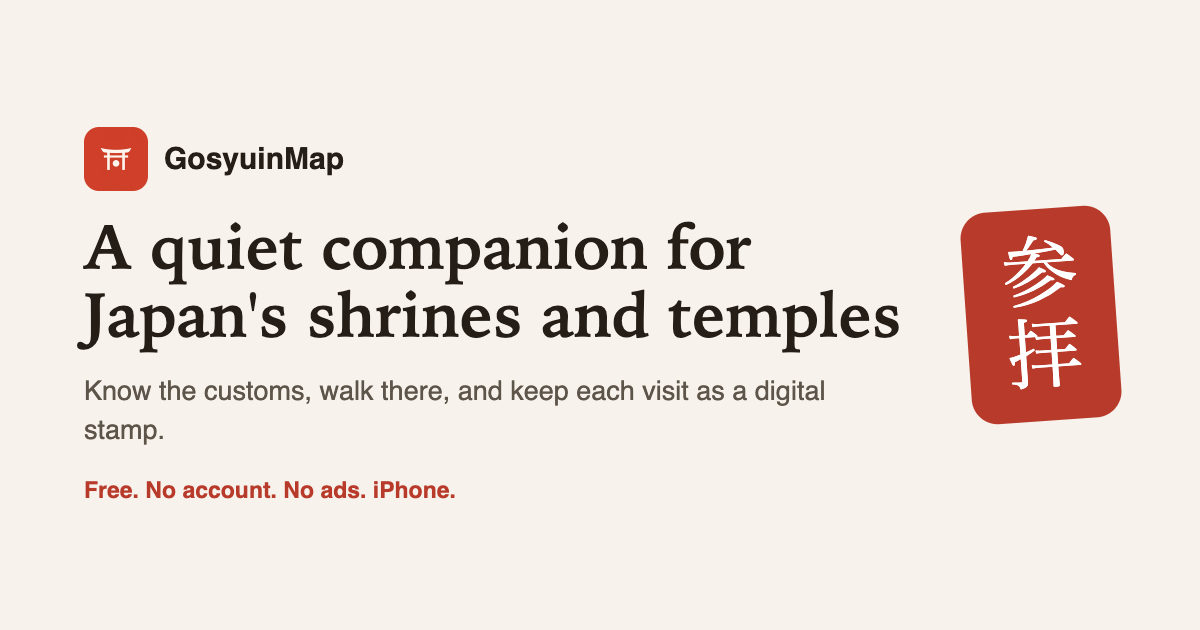
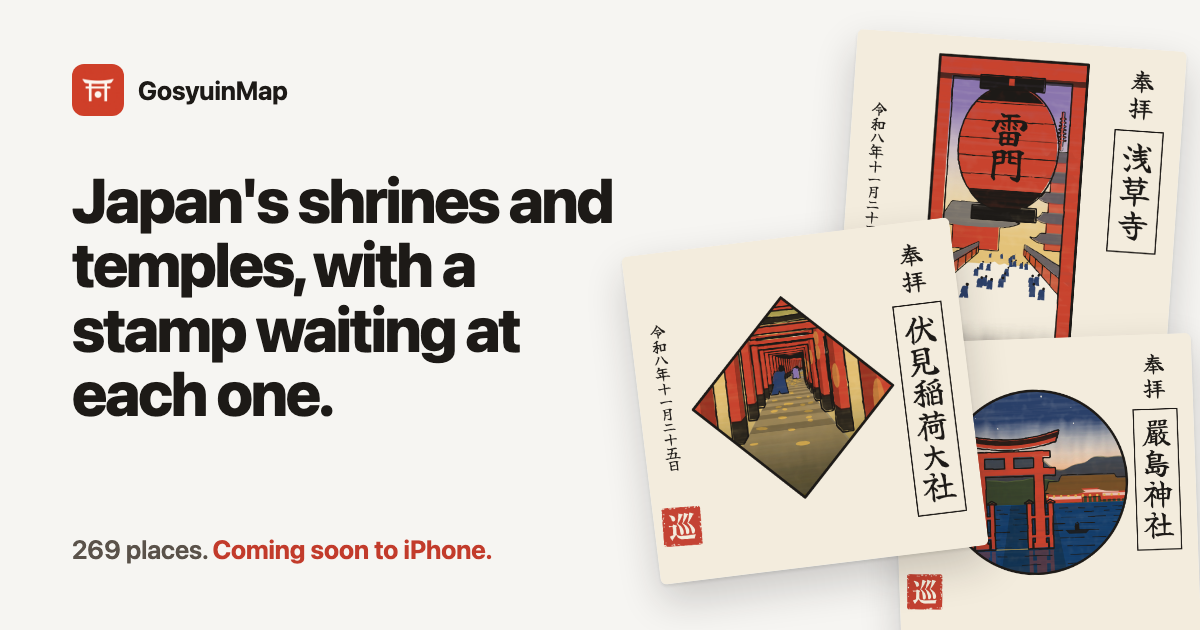
New hero, og image, email images, remove flow

diff --git a/index.html b/index.html
@@ -3,20 +3,34 @@
 <head>
 <meta charset="UTF-8">
 <meta name="viewport" content="width=device-width, initial-scale=1">
-<title>GosyuinMap: a guide to Japan's shrines and temples</title>
-<meta name="description" content="A free iPhone app for visiting Japan's shrines and temples. 269 places with written guides, the customs explained, walking directions, and a digital keepsake stamp you press when you arrive.">
-<meta property="og:title" content="GosyuinMap: a guide to Japan's shrines and temples">
-<meta property="og:description" content="Know the customs, walk there, and keep each visit as a digital stamp. Free, no account, no ads.">
+<title>GosyuinMap: stamps and guides for Japan's shrines and temples</title>
+<meta name="description" content="A free iPhone app for Japan's shrines and temples. 269 places, each with a guide and its own woodblock-style stamp. Learn what to do at the gate, walk there, and press the stamp when you arrive.">
+<link rel="canonical" href="https://bjprodby-svg.github.io/gosyuin/">
 <meta property="og:type" content="website">
+<meta property="og:site_name" content="GosyuinMap">
+<meta property="og:url" content="https://bjprodby-svg.github.io/gosyuin/">
+<meta property="og:title" content="GosyuinMap: stamps and guides for Japan's shrines and temples">
+<meta property="og:description" content="Learn what to do at the gate, walk there, and press a woodblock-style stamp you can only get on the spot. 269 places. Free, no account, no ads.">
+<meta property="og:locale" content="en_US">
 <meta property="og:image" content="https://bjprodby-svg.github.io/gosyuin/images/og.png">
+<meta property="og:image:type" content="image/png">
+<meta property="og:image:width" content="1200">
+<meta property="og:image:height" content="630">
+<meta property="og:image:alt" content="Woodblock-style stamps of Senso-ji, Fushimi Inari Taisha and Itsukushima Jinja on washi paper, beside the line: Japan's shrines and temples, with a stamp waiting at each one.">
 <meta name="twitter:card" content="summary_large_image">
+<meta name="twitter:site" content="@Gosyuin_map">
+<meta name="twitter:title" content="GosyuinMap: stamps and guides for Japan's shrines and temples">
+<meta name="twitter:description" content="Learn what to do at the gate, walk there, and press a woodblock-style stamp you can only get on the spot. Free, no account, no ads.">
+<meta name="twitter:image" content="https://bjprodby-svg.github.io/gosyuin/images/og.png">
+<meta name="twitter:image:alt" content="Woodblock-style stamps of Senso-ji, Fushimi Inari Taisha and Itsukushima Jinja on washi paper.">
+<meta name="theme-color" content="#F6F5F2">
 <!-- Smart App Banner (Safari on iPhone). Uncomment it in the same publish that
      sets LIVE_FROM (or PREORDER) below, with the ID (digits only) in place of APP_ID.
      The banner carries no campaign, so installs through it show as web referrals.
 <meta name="apple-itunes-app" content="app-id=APP_ID">
 -->
 <link rel="icon" href="images/app-icon.png">
-<link rel="apple-touch-icon" href="images/app-icon.png">
+<link rel="apple-touch-icon" href="images/apple-touch-icon.png">
 <link rel="stylesheet" href="styles.css">
 </head>
 <body class="has-get-bar">
@@ -38,15 +52,15 @@
 <section class="hero">
   <div class="wrap">
     <div>
-      <h1>A quiet companion for Japan's shrines and temples</h1>
-      <p class="lead">GosyuinMap walks you there, shows you what to do when you arrive, and lets you keep each visit as a digital stamp.</p>
+      <h1>Japan's shrines and temples, with a stamp waiting at each one.</h1>
+      <p class="lead">GosyuinMap tells you what to do at the gate, walks you there, and gives you a woodblock-style stamp you can only press on the spot.</p>
       <div class="cta">
         <a class="store-badge" data-store href="#top" hidden>
           <svg width="22" height="26" viewBox="0 0 814 1000" fill="currentColor" aria-hidden="true"><path d="M788 341c-6 4-109 62-109 190 0 148 130 200 134 201-1 3-21 71-69 141-43 61-88 123-156 123s-86-40-165-40c-77 0-104 41-167 41s-107-57-157-127C41 786 0 661 0 543c0-190 123-290 245-290 64 0 118 42 159 42 39 0 99-45 172-45 28 0 128 3 212 91zM574 164c32-38 55-91 55-144 0-7-1-15-2-20-52 2-114 35-152 78-29 33-57 86-57 140 0 8 1 16 2 19 3 1 9 2 14 2 47 0 106-31 140-75z"/></svg>
           <span><small>Download on the</small><b>App Store</b></span>
         </a>
         <div class="soon" data-soon>
-          <p class="soon-title">Coming soon to the App Store</p>
+          <p class="soon-title" data-soon-title>Coming soon to the App Store</p>
           <!-- The waitlist. Hidden until WAITLIST_FORM is set in the script at
                the bottom, so the page never shows a form that goes nowhere. -->
           <form class="waitlist" id="waitlist" data-waitlist method="post" target="waitlist-sink" hidden>
@@ -61,7 +75,7 @@
             <p class="waitlist-done" data-wl-done role="status" hidden></p>
           </form>
           <iframe class="vh" name="waitlist-sink" title="Waitlist" tabindex="-1" aria-hidden="true"></iframe>
-          <p class="soon-sub">Launch news on <a href="https://x.com/Gosyuin_map">X</a> and <a href="https://www.youtube.com/@gosyuinmap">YouTube</a>.</p>
+          <p class="soon-sub" data-soon-sub>Launch news on <a href="https://x.com/Gosyuin_map">X</a> and <a href="https://www.youtube.com/@gosyuinmap">YouTube</a>.</p>
         </div>
         <p class="fine">Free. No account. No ads.<br>iPhone, iOS 26 or later.</p>
       </div>
@@ -95,7 +109,7 @@
     <div class="claim flip" id="walk">
       <div class="text">
         <h2>269 well-known shrines and temples, each with a written guide.</h2>
-        <p class="body">Every place on the map tells you what makes it special, what not to miss, when to go, how to get there and when it is open. Pick one, tap Set Off, and the app gives you a walking route with your progress on the Lock Screen, so the phone can stay in your pocket.</p>
+        <p class="body">Every place on the map tells you what makes it special, what not to miss, when to go, how to get there and when it is open. Pick one, tap Go, and the app gives you a walking route with your progress on the Lock Screen, so the phone can stay in your pocket.</p>
         <p class="body fine">From Meiji Jingu and Senso-ji in Tokyo to Fushimi Inari Taisha and Kiyomizu-dera in Kyoto, Todai-ji in Nara and Itsukushima Jinja in Hiroshima.</p>
       </div>
       <div class="shots pair">
@@ -108,7 +122,7 @@
       <div class="text">
         <h2>When you are there, press a digital keepsake stamp. You have to be there.</h2>
         <p class="body">Within about 100 meters of a shrine or temple on the map, the app invites you to press its stamp into your stamp book. Each of the 269 places has its own design, drawn in the style of a woodblock print. There is no way to press one from your sofa.</p>
-        <p class="body">Your stamp book keeps every visit, shelved by prefecture, and characters from Japanese folk tales join you as it fills, from a paper lantern at your first place to the nine-tailed fox at the very end.</p>
+        <p class="body">Your stamp book keeps every visit, shelved by prefecture, and nine yokai from Japanese folk tales join you one by one as it fills, from a paper lantern at your first place to the nine-tailed fox at the very end.</p>
       </div>
       <div class="shots">
         <figure class="shot"><img src="images/screenshots/06-stamp-book.png" alt="The stamp book, with a companion from Japanese folk tales and shelves of stamps by prefecture" width="1320" height="2868" loading="lazy"></figure>
@@ -174,7 +188,7 @@
     </div>
     <ul class="know">
       <li><b>iPhone only.</b> Requires iOS 26 or later. The interface is in English.</li>
-      <li><b>Background location, only on a walk.</b> Walking guidance uses your location in the background only while a walk is in progress.</li>
+      <li><b>Background location, only when you ask.</b> Walking guidance uses your location in the background only during a walk. If you turn on "Tell me when I'm near a shrine", iOS watches for nearby places on your iPhone and the app sends you one notification when you pass one. It's off until you turn it on.</li>
       <li><b>Independent.</b> GosyuinMap is an independent app and is not affiliated with any shrine or temple.</li>
     </ul>
   </div>
@@ -192,7 +206,7 @@
     <div class="soon" data-soon>
       <p class="soon-title">Coming soon to the App Store</p>
       <a class="waitlist-jump" data-wl-link href="#waitlist" hidden>Get one email at launch</a>
-      <p class="soon-sub">Launch news on <a href="https://x.com/Gosyuin_map">X</a> and <a href="https://www.youtube.com/@gosyuinmap">YouTube</a>.</p>
+      <p class="soon-sub" data-soon-sub>Launch news on <a href="https://x.com/Gosyuin_map">X</a> and <a href="https://www.youtube.com/@gosyuinmap">YouTube</a>.</p>
     </div>
   </div>
 </section>
@@ -210,7 +224,7 @@
 
 <div class="get-bar">
   <img src="images/app-icon.png" alt="" width="44" height="44">
-  <p class="name">GosyuinMap<small>Free on iPhone</small></p>
+  <p class="name">GosyuinMap<small data-bar-line>Coming soon to iPhone</small></p>
   <a class="store-badge" data-store href="#top" hidden>
     <svg width="18" height="22" viewBox="0 0 814 1000" fill="currentColor" aria-hidden="true"><path d="M788 341c-6 4-109 62-109 190 0 148 130 200 134 201-1 3-21 71-69 141-43 61-88 123-156 123s-86-40-165-40c-77 0-104 41-167 41s-107-57-157-127C41 786 0 661 0 543c0-190 123-290 245-290 64 0 118 42 159 42 39 0 99-45 172-45 28 0 128 3 212 91zM574 164c32-38 55-91 55-144 0-7-1-15-2-20-52 2-114 35-152 78-29 33-57 86-57 140 0 8 1 16 2 19 3 1 9 2 14 2 47 0 106-31 140-75z"/></svg>
     <span><small>Download on the</small><b>App Store</b></span>
@@ -267,6 +281,8 @@
       var line = a.querySelector("small");
       if (line) line.textContent = live ? "Download on the" : "Pre-order on the";
     });
+    var barLine = document.querySelector("[data-bar-line]");
+    if (barLine) barLine.textContent = live ? "Free on iPhone" : "Pre-order on iPhone";
     document.querySelectorAll("[data-soon]").forEach(function (el) { el.hidden = true; });
     return;
   }
@@ -289,12 +305,19 @@
   var button = form.querySelector("[data-wl-button]");
   var done = form.querySelector("[data-wl-done]");
   if (removing) {
+    // Leaving the list: the page is about removing an address, so nothing
+    // here asks to sign up (no Coming soon label, no bottom bar, no links).
     button.textContent = "Remove my email";
+    form.classList.add("is-remove");
     form.querySelector("[data-wl-promise]").textContent =
       "Type the address you signed up with. We delete it from the waitlist within 7 days.";
+    var title = document.querySelector("[data-soon-title]");
+    if (title) { title.textContent = "Leave the waitlist"; title.classList.add("is-remove"); }
+    document.querySelectorAll("[data-soon-sub]").forEach(function (el) { el.hidden = true; });
+    document.body.classList.add("removing");
   }
   form.hidden = false;
-  document.querySelectorAll("[data-wl-link]").forEach(function (a) { a.hidden = false; });
+  if (!removing) document.querySelectorAll("[data-wl-link]").forEach(function (a) { a.hidden = false; });
   document.querySelectorAll("[data-wl-chip]").forEach(function (el) { el.hidden = true; });
   if (removing) form.scrollIntoView({ block: "center" });
 
@@ -316,9 +339,20 @@
     form.querySelector("[data-wl-promise]").hidden = true;
     done.textContent = removing
       ? "Got it. We'll delete that address within 7 days."
-      : "You're on the list! Check your inbox for a confirmation. One email when it's out, then we delete your address.";
+      : "You're on the list! A confirmation is on its way (check Promotions or Spam if it's not there in a few minutes). One email when it's out, then we delete your address.";
     done.hidden = false;
   });
+})();
+</script>
+<script>
+// The bottom bar on phones shows only once the hero's own label and form
+// have scrolled out of view, so the two never sit on screen together.
+(function () {
+  var cta = document.querySelector(".hero .cta");
+  if (!cta || !("IntersectionObserver" in window)) return;
+  new IntersectionObserver(function (entries) {
+    document.body.classList.toggle("cta-in-view", entries[0].isIntersecting);
+  }).observe(cta);
 })();
 </script>
 </body>

diff --git a/support.html b/support.html
@@ -3,9 +3,29 @@
 <head>
 <meta charset="UTF-8">
 <meta name="viewport" content="width=device-width, initial-scale=1">
-<title>Support and FAQ | GosyuinMap</title>
-<meta name="description" content="Help for GosyuinMap: how pressing a stamp works, why you have to be there, location permission, what happens to your data, and how to contact us.">
+<title>Support and FAQ: GosyuinMap</title>
+<meta name="description" content="Help for GosyuinMap: how pressing a stamp works, why you have to be there, location and nearby notifications, what happens to your data, and how to contact us.">
+<link rel="canonical" href="https://bjprodby-svg.github.io/gosyuin/support.html">
+<meta property="og:type" content="website">
+<meta property="og:site_name" content="GosyuinMap">
+<meta property="og:url" content="https://bjprodby-svg.github.io/gosyuin/support.html">
+<meta property="og:title" content="Support and FAQ: GosyuinMap">
+<meta property="og:description" content="Help for GosyuinMap: how pressing a stamp works, why you have to be there, location and nearby notifications, what happens to your data, and how to contact us.">
+<meta property="og:locale" content="en_US">
+<meta property="og:image" content="https://bjprodby-svg.github.io/gosyuin/images/og.png">
+<meta property="og:image:type" content="image/png">
+<meta property="og:image:width" content="1200">
+<meta property="og:image:height" content="630">
+<meta property="og:image:alt" content="Woodblock-style stamps of Senso-ji, Fushimi Inari Taisha and Itsukushima Jinja on washi paper, beside the line: Japan's shrines and temples, with a stamp waiting at each one.">
+<meta name="twitter:card" content="summary_large_image">
+<meta name="twitter:site" content="@Gosyuin_map">
+<meta name="twitter:title" content="Support and FAQ: GosyuinMap">
+<meta name="twitter:description" content="Help for GosyuinMap: how pressing a stamp works, why you have to be there, location and nearby notifications, what happens to your data, and how to contact us.">
+<meta name="twitter:image" content="https://bjprodby-svg.github.io/gosyuin/images/og.png">
+<meta name="twitter:image:alt" content="Woodblock-style stamps of Senso-ji, Fushimi Inari Taisha and Itsukushima Jinja on washi paper.">
+<meta name="theme-color" content="#F6F5F2">
 <link rel="icon" href="images/app-icon.png">
+<link rel="apple-touch-icon" href="images/apple-touch-icon.png">
 <link rel="stylesheet" href="styles.css">
 </head>
 <body>
@@ -33,8 +53,8 @@
   </div>
 
   <ul class="toc">
-    <li><a href="#collecting">How does collecting a stamp work?</a></li>
-    <li><a href="#remote">Why can't I collect a stamp from somewhere else?</a></li>
+    <li><a href="#collecting">How does pressing a stamp work?</a></li>
+    <li><a href="#remote">Why can't I press a stamp from somewhere else?</a></li>
     <li><a href="#goshuin">Are the stamps goshuin?</a></li>
     <li><a href="#no-invitation">I am at a shrine and nothing happened</a></li>
     <li><a href="#location">Why does the app ask for my location?</a></li>
@@ -44,16 +64,16 @@
     <li><a href="#contact">How do I contact you?</a></li>
   </ul>
 
-  <h2 id="collecting">How does collecting a stamp work?</h2>
+  <h2 id="collecting">How does pressing a stamp work?</h2>
   <ol>
     <li>Find a shrine or temple on the map in the Explore tab. The app includes 269 of them, and each has its own stamp.</li>
-    <li>Go there. If you like, tap Set Off for a walking route with your progress on the Lock Screen.</li>
-    <li>When you are within about 100 meters, the app shows an invitation with the place's seal. Tap the seal to press it. You can also turn the phone over and press it onto your palm.</li>
+    <li>Go there. If you like, tap Directions, then Go, for a walking route with your progress on the Lock Screen. Taking the train? Open in Maps hands the route to Apple Maps, or Google Maps if you have it.</li>
+    <li>When you are within about 100 meters, the app shows an invitation with the place's seal. Touch the seal to press it. You can also turn the phone over and press it onto your palm.</li>
     <li>The stamp is now in your stamp book in the Collect tab, shelved by prefecture.</li>
   </ol>
   <p>If you tap Not Now, the invitation for that place stays quiet for the rest of the session. You can still press the stamp from that place's page on the map (Press the Stamp) while you are there.</p>
 
-  <h2 id="remote">Why can't I collect a stamp from somewhere else?</h2>
+  <h2 id="remote">Why can't I press a stamp from somewhere else?</h2>
   <p>Because the stamp is a memento of being there. The app checks your location on your iPhone and only offers the stamp when you are within about 100 meters of the place. There is no other way to add a stamp, and we cannot add one for you: your stamp book is stored on your device and we have no access to it.</p>
 
   <h2 id="goshuin">Are the stamps goshuin?</h2>
@@ -75,7 +95,9 @@
     <li>to guide your walk to a place you choose,</li>
     <li>to confirm that you have arrived, so you can press the stamp.</li>
   </ul>
-  <p>While a walk is in progress, the app keeps reading your location with the screen off so the Lock Screen progress stays up to date. This stops when the walk ends. At no other time does the app use your location in the background.</p>
+  <p>While a walk is in progress, the app keeps reading your location with the screen off so the Lock Screen progress stays up to date. This stops when the walk ends.</p>
+  <p>If you turn on "Tell me when I'm near a shrine", the app asks for Always access so iOS can notice, on your iPhone, when you pass a place not yet in your book, and send you one notification. It's off until you turn it on, and you can turn it off again in the app's Settings or in iOS Settings. Your location stays on your iPhone.</p>
+  <p>Apart from these two, the app never uses your location in the background.</p>
   <p>If you do not allow location access, the map, the guides and your stamp book still work. You will not be able to press new stamps or use walking guidance.</p>
 
   <h2 id="data">What happens to my data?</h2>

diff --git a/styles.css b/styles.css
@@ -3,13 +3,13 @@
 
 :root {
   color-scheme: light dark;
-  --paper: #f7f2eb;
+  --paper: #f6f5f2;
   --paper-raised: #fffdf9;
   --paper-sunk: #efe8dd;
-  --ink: #241e17;
+  --ink: #1d1a17;
   --ink-soft: #5d544a;
-  --line: rgba(36, 30, 23, 0.12);
-  --shu: #b83a2a;
+  --line: rgba(29, 26, 23, 0.12);
+  --shu: #c23b2b;
   --shu-ink: #ffffff;
   --link: #a23324;
   --shadow: 0 14px 34px rgba(50, 32, 10, 0.14);
@@ -101,11 +101,9 @@ p { margin: 0; }
   margin: 0; padding: 10px 16px; border: 1px solid var(--line); border-radius: 999px;
   background: var(--paper-raised); color: var(--ink); font-weight: 700; font-size: 17px; line-height: 1.2;
 }
-.soon-title::before { content: ""; width: 8px; height: 8px; border-radius: 50%; background: var(--shu); flex: none; }
 .soon-sub { margin: 0; font-size: 14px; color: var(--ink-soft); }
 .soon-sub a { color: var(--link); }
-.closing .soon { align-items: center; margin-top: 28px; }
-.closing .soon-title { align-self: center; }
+.closing .soon { align-items: flex-start; margin-top: 28px; }
 .soon-chip { display: none; }
 
 /* The waitlist inside the Coming soon label: one email field, one button. */
@@ -123,6 +121,8 @@ p { margin: 0; }
   flex: none; height: 48px; padding: 0 18px; border: 0; border-radius: 12px;
   background: var(--shu); color: var(--shu-ink); font: inherit; font-size: 16px; font-weight: 700; cursor: pointer;
 }
+/* Leaving the list (#remove): a quiet ink outline, not the sign-up button. */
+.waitlist.is-remove button { background: transparent; color: var(--ink); border: 1.5px solid var(--ink); }
 .waitlist button:disabled { opacity: 0.6; cursor: default; }
 .waitlist-promise, .waitlist-done { margin: 0; font-size: 14px; color: var(--ink-soft); }
 .waitlist-done { color: var(--ink); font-weight: 600; }
@@ -159,6 +159,11 @@ p { margin: 0; }
     background: var(--paper-raised); color: var(--ink); font-size: 13px; font-weight: 700; white-space: nowrap;
   }
   .get-bar .soon-chip[hidden] { display: none; }
+  .get-bar { transition: transform 0.25s ease, visibility 0.25s; }
+  @media (prefers-reduced-motion: reduce) { .get-bar { transition: none; } }
+  /* Hidden while the hero's own label is on screen, and on #remove. */
+  body.cta-in-view .get-bar, body.removing .get-bar { transform: translateY(110%); visibility: hidden; }
+  body.removing.has-get-bar { padding-bottom: 0; }
   .get-bar a.soon-chip { color: var(--shu-ink); background: var(--shu); border-color: transparent; text-decoration: none; }
 }
 
@@ -223,7 +228,7 @@ p { margin: 0; }
 .guide-list span { font-size: 15px; color: var(--ink-soft); }
 .types { margin-top: 40px; display: grid; grid-template-columns: repeat(8, 1fr); gap: 12px; }
 .types figure { margin: 0; background: #fffdf9; border: 1px solid var(--line); border-radius: 14px; padding: 8px 8px 10px; text-align: center; }
-.types figcaption { font-size: 12.5px; font-weight: 700; color: #241e17; margin-top: 4px; }
+.types figcaption { font-size: 12.5px; font-weight: 700; color: #1d1a17; margin-top: 4px; }
 @media (max-width: 860px) {
   .guide-list { grid-template-columns: 1fr; }
   .types { grid-template-columns: repeat(4, 1fr); }
@@ -241,9 +246,9 @@ p { margin: 0; }
 .know b { color: var(--ink); }
 
 /* ---------- closing ---------- */
-.closing { text-align: center; padding: 72px 0 88px; border-top: 1px solid var(--line); }
-.closing img.icon { width: 88px; height: 88px; border-radius: 20px; margin: 0 auto 24px; box-shadow: var(--shadow); }
-.closing .lead { margin: 14px auto 0; max-width: 30em; }
+.closing { padding: 72px 0 88px; border-top: 1px solid var(--line); }
+.closing img.icon { width: 88px; height: 88px; border-radius: 20px; margin: 0 0 24px; box-shadow: var(--shadow); }
+.closing .lead { margin: 14px 0 0; max-width: 30em; }
 .closing .store-badge { margin-top: 28px; }
 
 /* ---------- footer ---------- */
@@ -269,3 +274,6 @@ p { margin: 0; }
 .toc { margin: 24px 0 0; padding: 0; list-style: none; columns: 2; column-gap: 32px; font-size: 15.5px; }
 .toc li { margin: 0 0 8px; break-inside: avoid; }
 @media (max-width: 560px) { .toc { columns: 1; } }
+
+/* #remove: the label reads as a heading for the form, not as a button. */
+.soon-title.is-remove { border: 0; background: none; padding: 0; font-size: 22px; }

diff --git a/privacy.html b/privacy.html
@@ -3,9 +3,29 @@
 <head>
 <meta charset="UTF-8">
 <meta name="viewport" content="width=device-width, initial-scale=1">
-<title>Privacy Policy | GosyuinMap</title>
+<title>Privacy Policy: GosyuinMap</title>
 <meta name="description" content="GosyuinMap privacy policy, in English and Japanese. The app has no accounts and no servers of its own, and does not collect personal data.">
+<link rel="canonical" href="https://bjprodby-svg.github.io/gosyuin/privacy.html">
+<meta property="og:type" content="website">
+<meta property="og:site_name" content="GosyuinMap">
+<meta property="og:url" content="https://bjprodby-svg.github.io/gosyuin/privacy.html">
+<meta property="og:title" content="Privacy Policy: GosyuinMap">
+<meta property="og:description" content="GosyuinMap privacy policy, in English and Japanese. The app has no accounts and no servers of its own, and does not collect personal data.">
+<meta property="og:locale" content="en_US">
+<meta property="og:image" content="https://bjprodby-svg.github.io/gosyuin/images/og.png">
+<meta property="og:image:type" content="image/png">
+<meta property="og:image:width" content="1200">
+<meta property="og:image:height" content="630">
+<meta property="og:image:alt" content="Woodblock-style stamps of Senso-ji, Fushimi Inari Taisha and Itsukushima Jinja on washi paper, beside the line: Japan's shrines and temples, with a stamp waiting at each one.">
+<meta name="twitter:card" content="summary_large_image">
+<meta name="twitter:site" content="@Gosyuin_map">
+<meta name="twitter:title" content="Privacy Policy: GosyuinMap">
+<meta name="twitter:description" content="GosyuinMap privacy policy, in English and Japanese. The app has no accounts and no servers of its own, and does not collect personal data.">
+<meta name="twitter:image" content="https://bjprodby-svg.github.io/gosyuin/images/og.png">
+<meta name="twitter:image:alt" content="Woodblock-style stamps of Senso-ji, Fushimi Inari Taisha and Itsukushima Jinja on washi paper.">
+<meta name="theme-color" content="#F6F5F2">
 <link rel="icon" href="images/app-icon.png">
+<link rel="apple-touch-icon" href="images/apple-touch-icon.png">
 <link rel="stylesheet" href="styles.css">
 </head>
 <body>

diff --git a/404.html b/404.html
@@ -1,0 +1,43 @@
+<!DOCTYPE html>
+<html lang="en">
+<head>
+<meta charset="UTF-8">
+<meta name="viewport" content="width=device-width, initial-scale=1">
+<title>Page not found: GosyuinMap</title>
+<meta name="robots" content="noindex">
+<!-- GitHub Pages serves this for any missing address, at any depth, so every
+     link here is absolute. -->
+<link rel="icon" href="/gosyuin/images/app-icon.png">
+<link rel="apple-touch-icon" href="/gosyuin/images/apple-touch-icon.png">
+<link rel="stylesheet" href="/gosyuin/styles.css">
+</head>
+<body>
+
+<header class="site-header">
+  <div class="wrap">
+    <a class="brand" href="/gosyuin/"><img src="/gosyuin/images/app-icon.png" alt="" width="36" height="36">GosyuinMap</a>
+    <nav class="site-nav" aria-label="Site">
+      <a href="/gosyuin/support.html">Support</a>
+      <a href="/gosyuin/privacy.html">Privacy</a>
+    </nav>
+  </div>
+</header>
+
+<main class="doc">
+<div class="wrap narrow">
+  <h1>This page isn't here.</h1>
+  <p class="lead" style="margin-top:16px">The link may be old, or a letter got lost on the way.</p>
+  <p style="margin-top:28px"><a href="/gosyuin/">Go to the GosyuinMap home page</a></p>
+</div>
+</main>
+
+<footer class="site-footer">
+  <div class="wrap">
+    <a href="/gosyuin/privacy.html">Privacy Policy</a>
+    <a href="/gosyuin/support.html">Support and FAQ</a>
+    <span class="right">© 2026 Takumi Yasuda</span>
+  </div>
+</footer>
+
+</body>
+</html>
